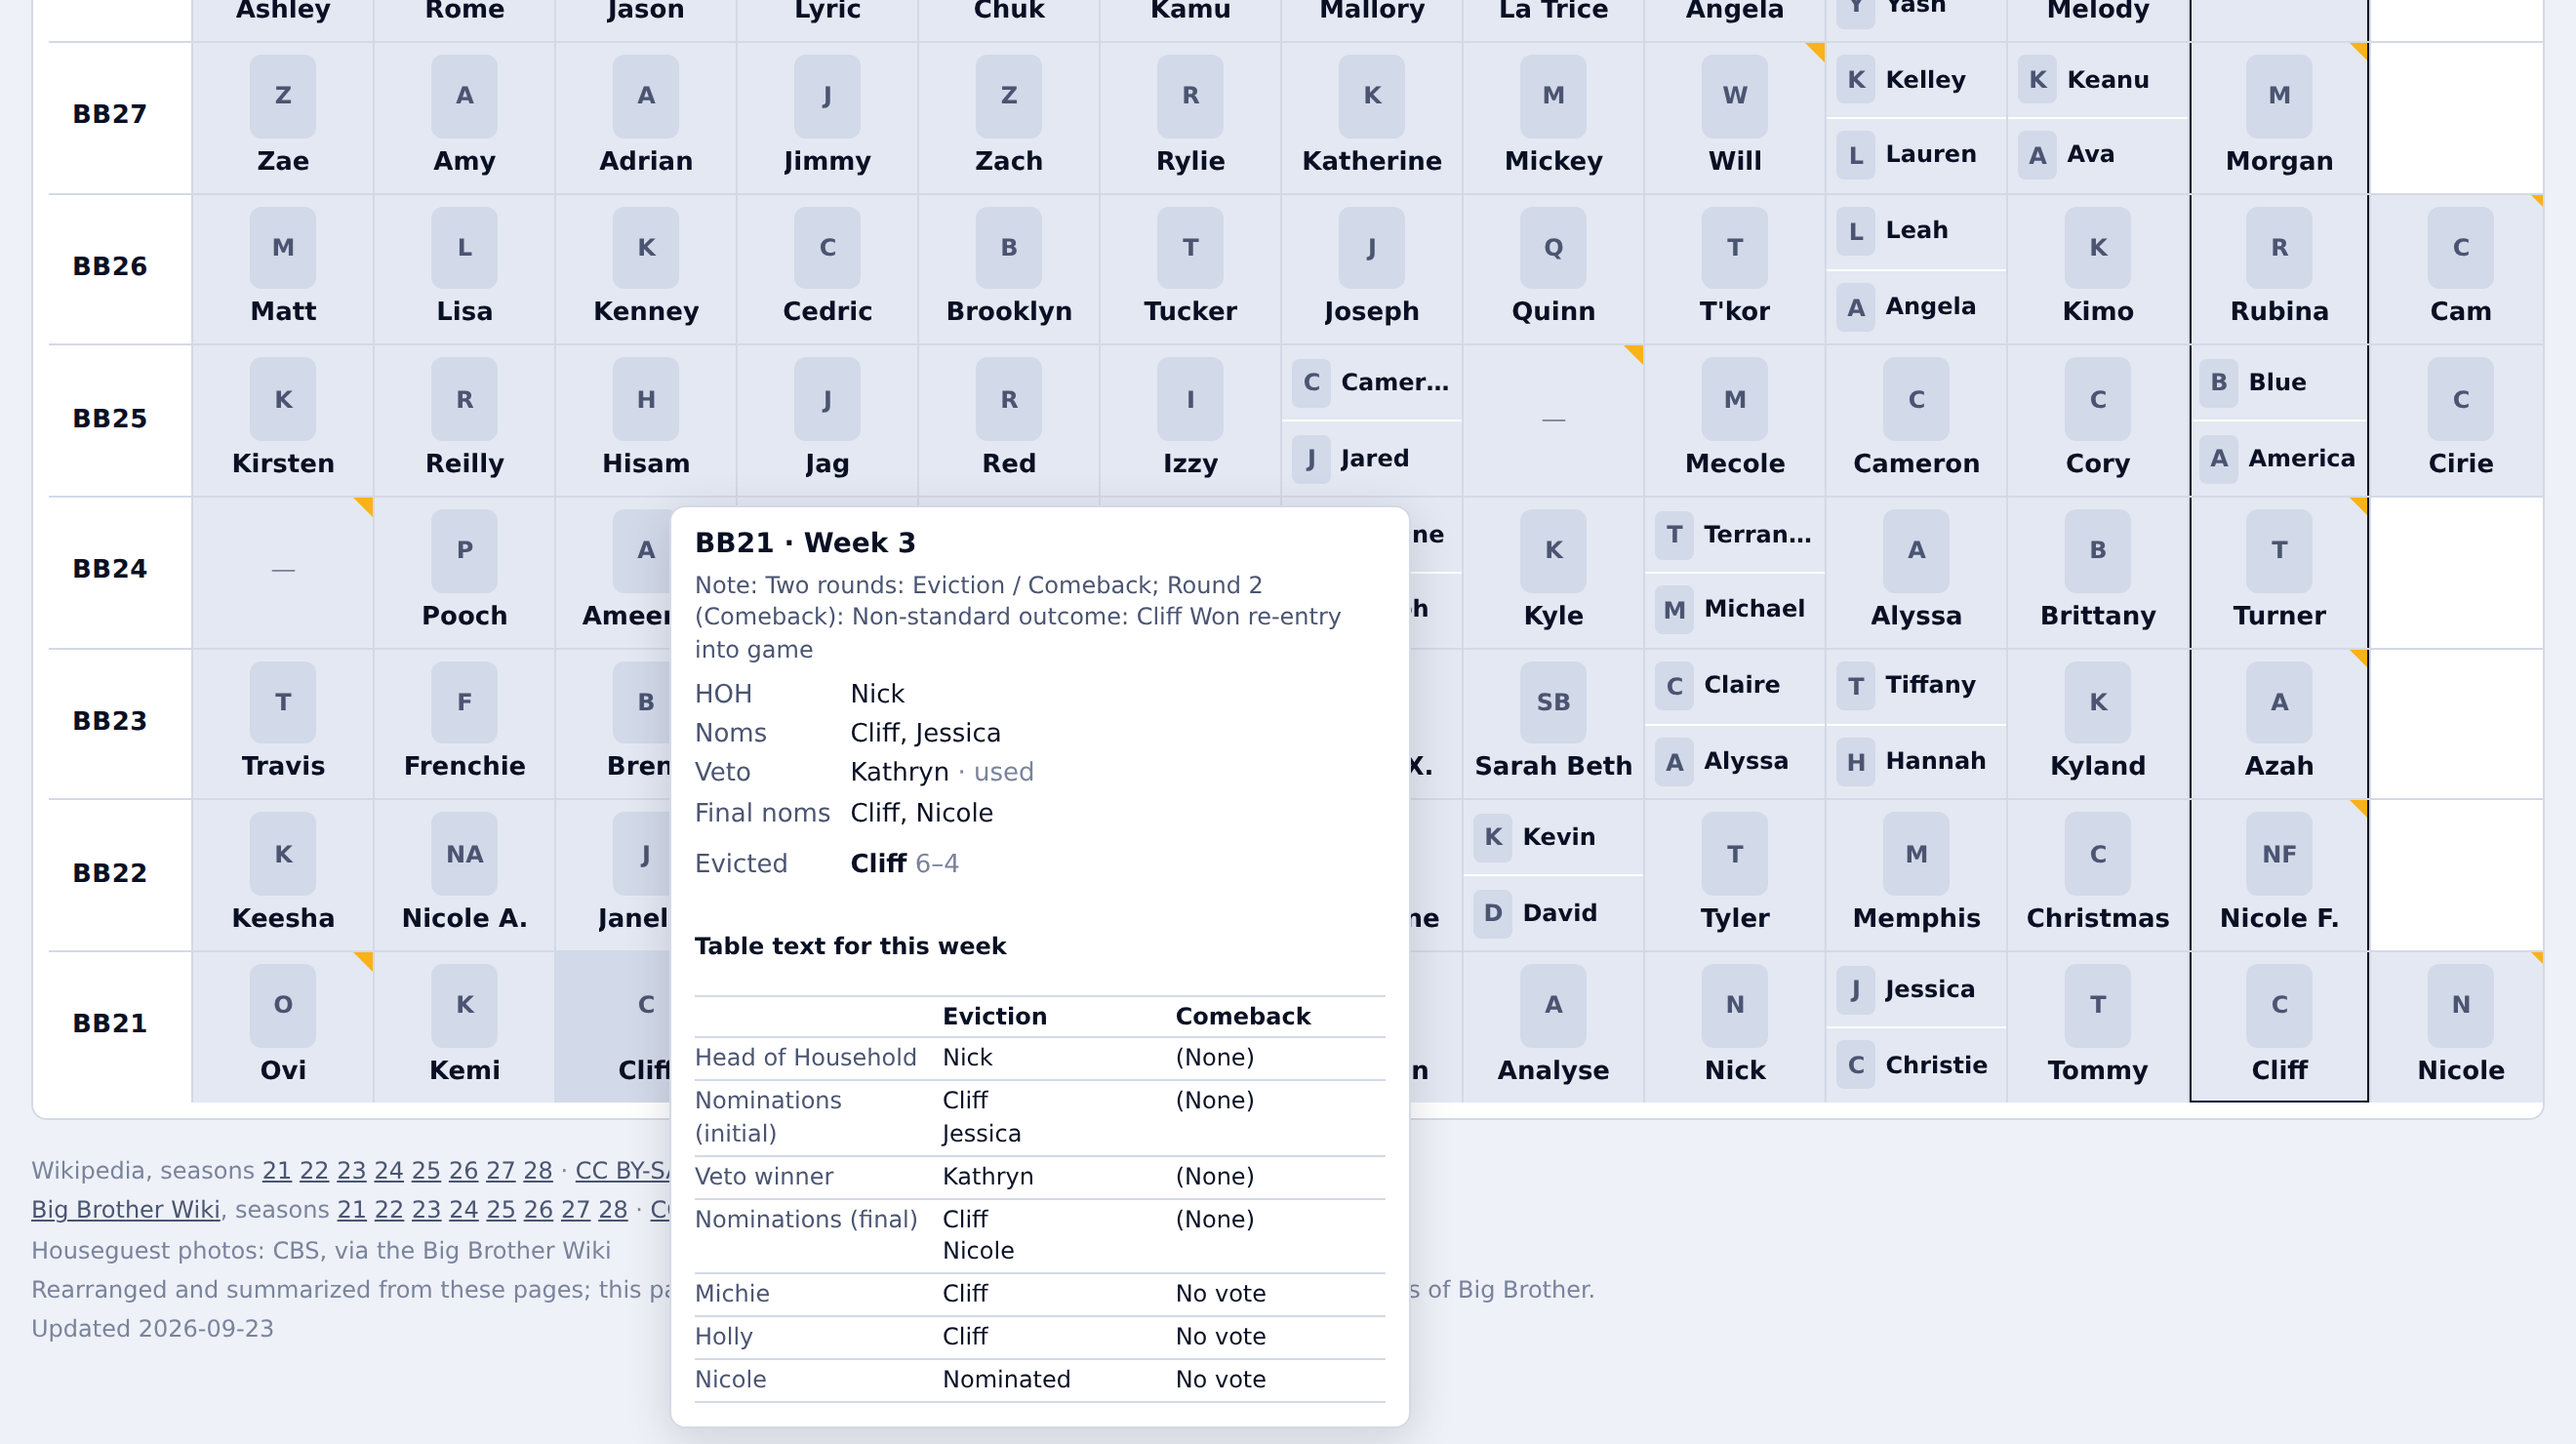
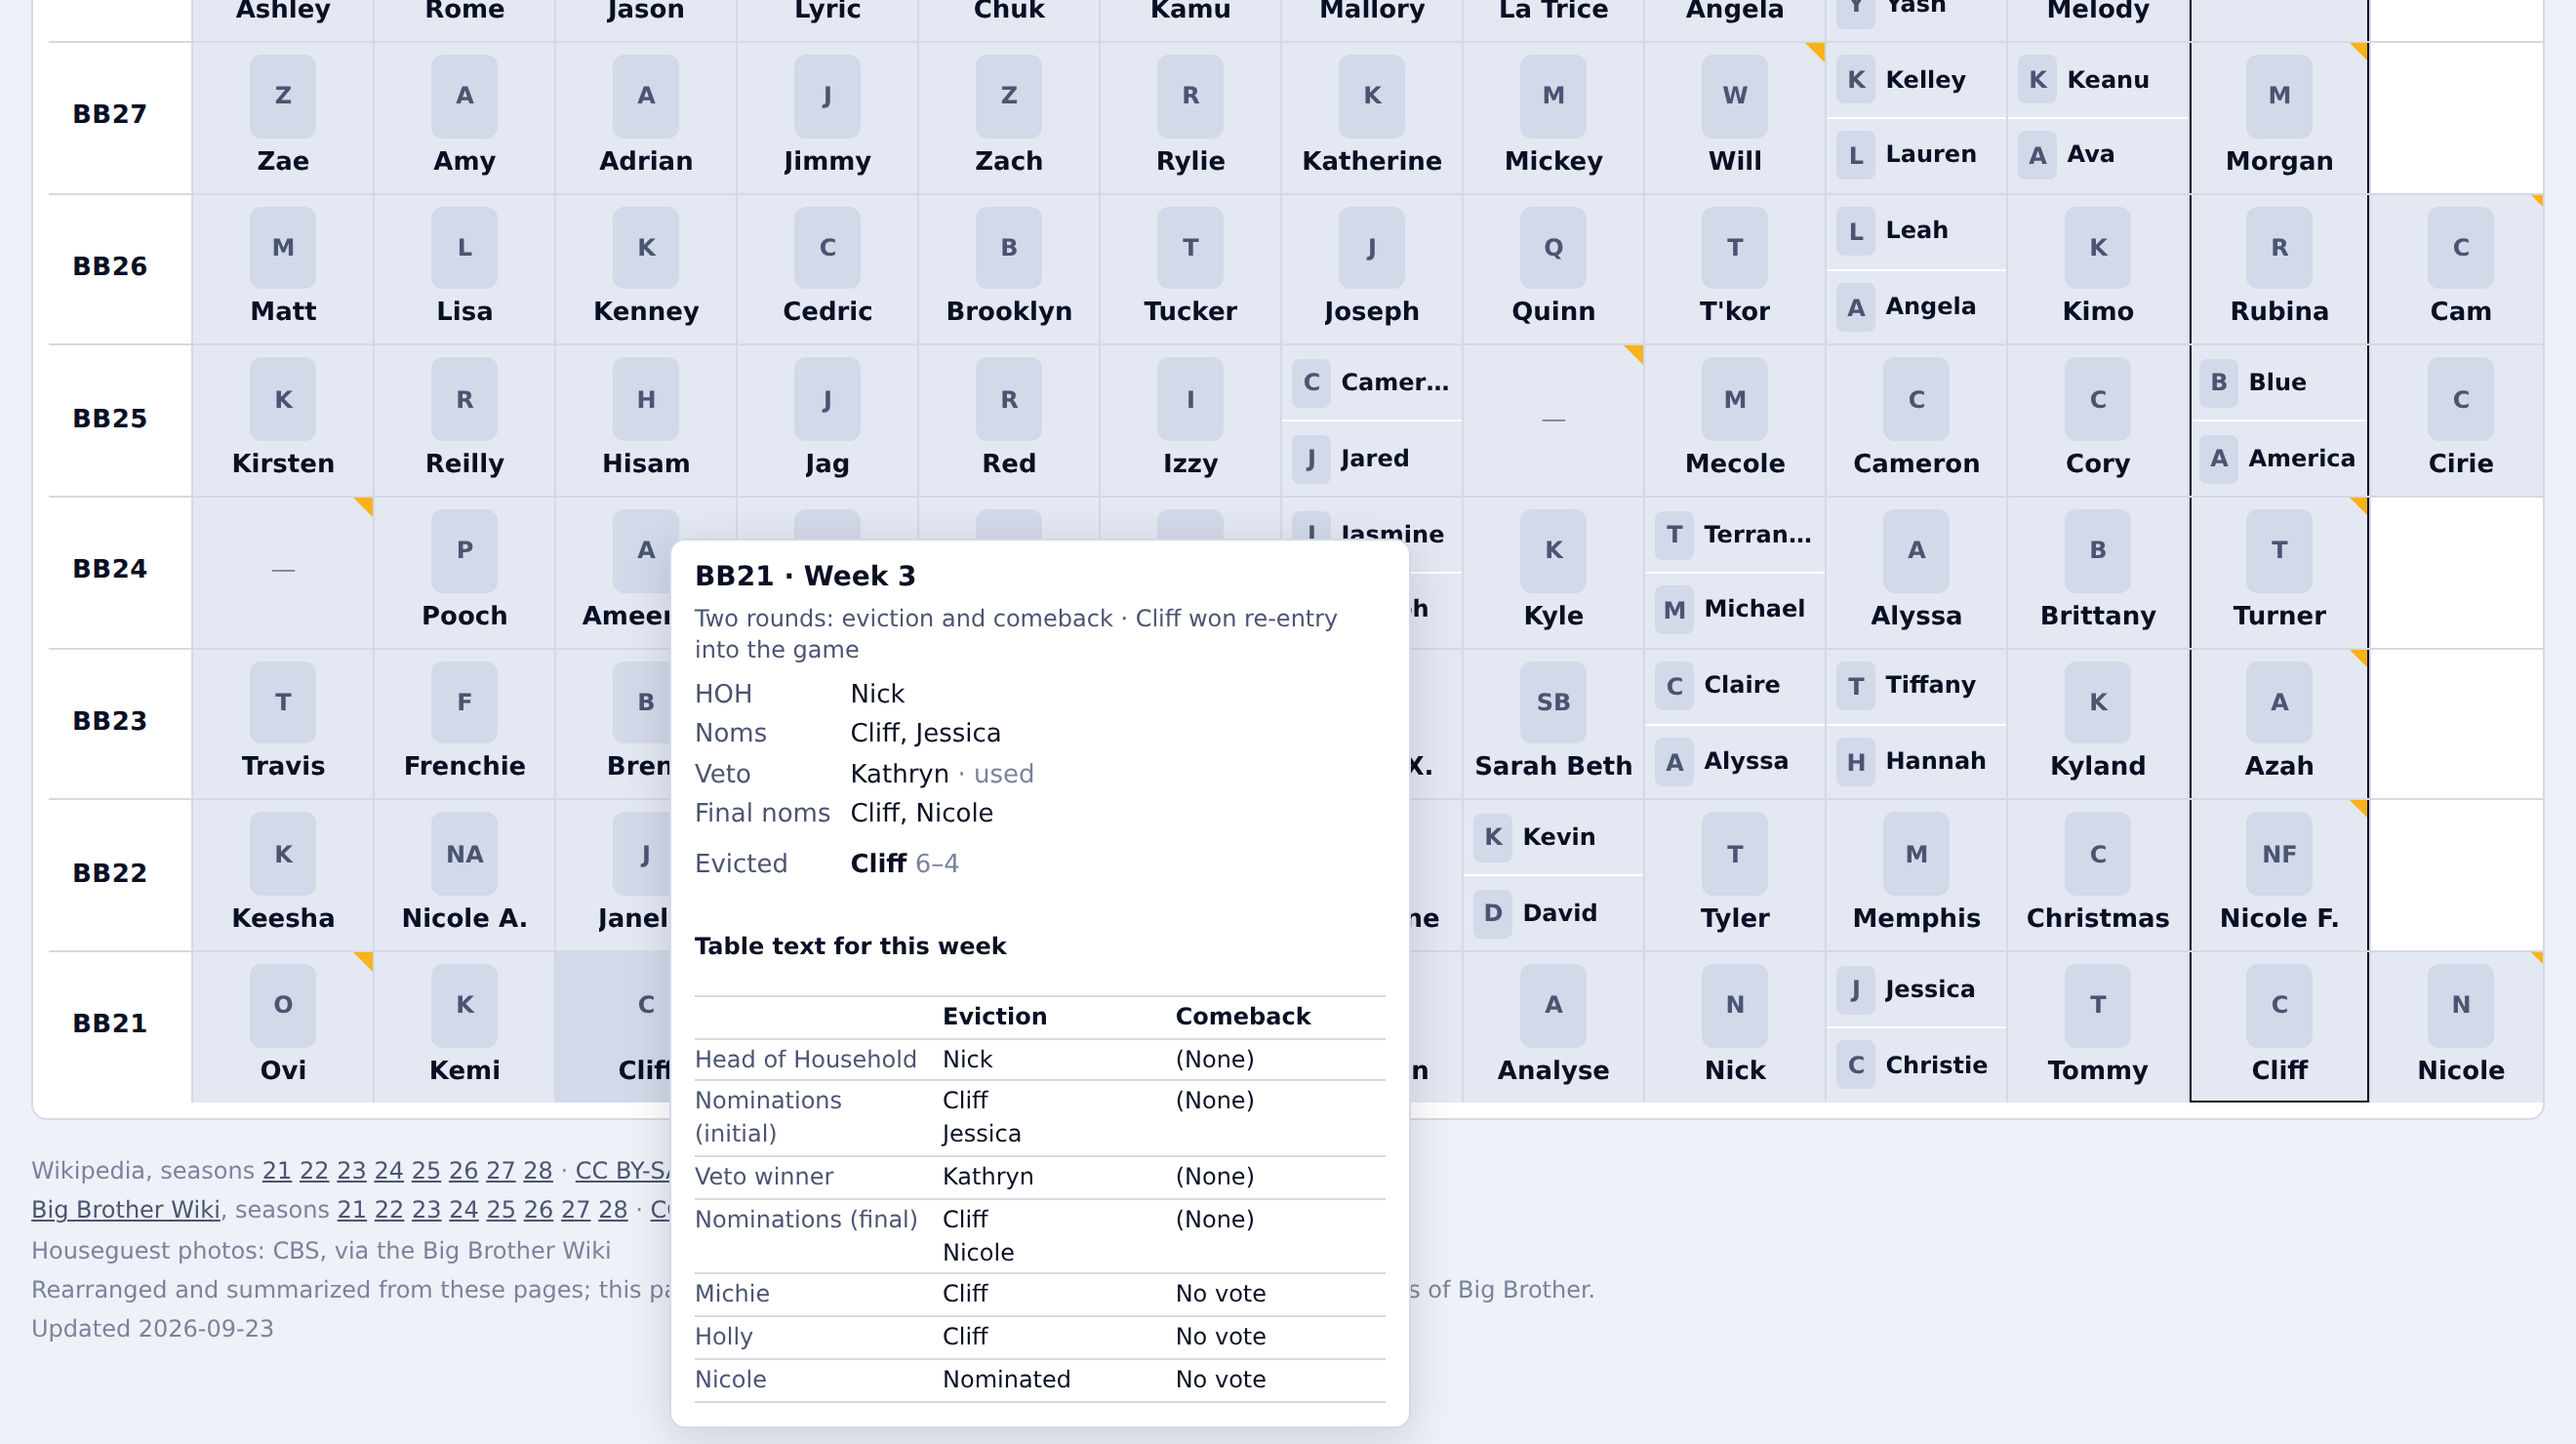
Week subtitles in plain words instead of pipeline notes
The drawer and tooltip showed weeks.json's report notes as-is ("Note: Finale",
"Note: Two rounds: Day 1 / Day 8; Round 1 (Day 1): Non-standard outcome: David
Evicted by competition"). statusText() now phrases them: "Finale week",
"Finale week · two evictions", "Two rounds · David evicted by competition",
"Yash chose to eliminate Haley". weeks.json and report.txt are unchanged. The
style guide gets the rule, and the README caption and screenshots follow.

Claude-Session: https://claude.ai/code/session_01Q116MLyr4aju48DY4BNcgB

diff --git a/web/index.html b/web/index.html
@@ -1058,9 +1058,30 @@ function weekRecord(season, label) {
   return DATA.weeks.find(w => w.season === season && w.week_label === label);
 }
 
+// The line under a week's title, in plain words. weeks.json's "note" is written
+// for the report ("Finale; Two evictions", "Round 1 (Day 1): Non-standard
+// outcome: David Evicted by competition"); the folded corner already says the
+// week isn't fully modeled, so this just says what kind of week it was.
 function statusText(w) {
-  if (w.status === "ok") return w.note || "";
-  return `${w.status === "error" ? "Error" : "Note"}: ${w.note || ""}`;
+  const text = [...new Set((w.note || "").split("; ").filter(Boolean).map(notePhrase))].join(" · ");
+  const line = text.charAt(0).toUpperCase() + text.slice(1);
+  return w.status === "error" ? `Failed a check${line ? `: ${line}` : ""}` : line;
+}
+function notePhrase(note) {
+  let m;
+  if (note === "Finale") return "finale week";
+  if ((m = note.match(/^Round \d+ \([^)]*\): (.+)$/))) return notePhrase(m[1]);
+  // Rounds named by day are just two rounds; named columns say what they were.
+  if ((m = note.match(/^Two rounds: (.+) \/ (.+)$/)))
+    return /^Day \d/.test(m[1]) ? "two rounds" : `two rounds: ${m[1].toLowerCase()} and ${m[2].toLowerCase()}`;
+  if ((m = note.match(/^Non-standard outcome: (.+)$/))) {
+    const out = m[1];
+    if ((m = out.match(/^(.+?) (\S+(?: \S+)?)'s choice to (\w+)$/))) return `${m[2]} chose to ${m[3]} ${m[1]}`;
+    if ((m = out.match(/^(.+?) (Evicted|Eliminated|Won)\b(.*)$/))) return `${m[1]} ${m[2].toLowerCase()}${m[3].replace(/ into game$/, " into the game")}`;
+    return out.toLowerCase();
+  }
+  if (/sub-columns \(not modeled\)/.test(note)) return "not fully modeled";
+  return note.charAt(0).toLowerCase() + note.slice(1);
 }
 
 async function showWeek(season, label) {

diff --git a/README.md b/README.md
@@ -75,7 +75,7 @@ just "Two evictions":
 separate "Inside" and "Outside" evictions. Both are modeled, and the note names the
 columns instead of calling it a double eviction. Dark mode:
 
-![Dark-mode grid with the BB24 Week 7 "Two rounds: Inside / Outside" tooltip](docs/screenshots/grid-split-house-dark.png)
+![Dark-mode grid with the BB24 Week 7 "Two rounds: inside and outside" tooltip](docs/screenshots/grid-split-house-dark.png)
 
 **A twist week.** Weeks with a folded yellow corner aren't fully modeled. The tooltip gives the reason and
 the week's table text as Wikipedia shows it. In BB21 Week 3 the regular eviction is

diff --git a/docs/style-guide.md b/docs/style-guide.md
@@ -145,6 +145,11 @@ the same look, add its selector to that list.
 - **Empty states** say what's missing and when it will appear ("Not named yet: the
   favorite is announced at the finale.").
 - **Instructions** say "Click or tap".
+- **Never show pipeline wording.** Notes in `weeks.json` are written for `report.txt`
+  ("Finale; Two evictions", "Non-standard outcome: …"). The page rewrites them as
+  plain phrases (`statusText()`: "Finale week · two evictions", "Cliff won re-entry
+  into the game"), without labels like "Note:" or "Error:". A new kind of note gets a
+  case in `notePhrase()`.
 
 ## Recipes
 
